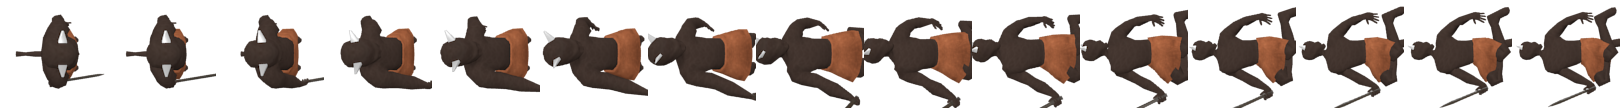
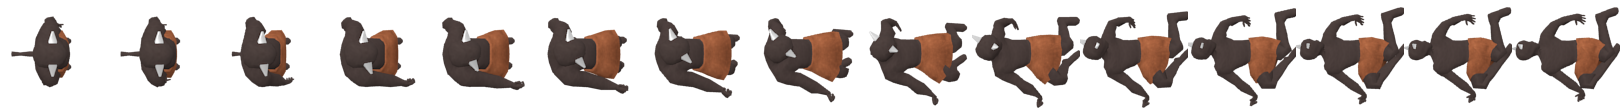
Intros, item balancing, updated anims

Changed region(s): [[0.0, 0.0556, 1.0, 1.0], [0.8642, 0.9722, 0.8951, 1.0]]

diff --git a/core/src/userInterface/InputHandler.java b/core/src/userInterface/InputHandler.java
@@ -14,6 +14,10 @@ public class InputHandler
 {
 
 	private Debug debugger = new Debug();
+	
+	private int lockX = -1;
+	private int lockY = -1;
+	private long lastButtonClick;
 	public void update(boolean playableLevel)
 	{
 		if (playableLevel)
@@ -59,18 +63,25 @@ public class InputHandler
 				{
 					int x = Gdx.input.getX();
 					int y = Canvas.HEIGHT-Gdx.input.getY();
-					if(!GUIHandler.getGUIHandler().wasGUIPressed(x,y))
+					if(GUIHandler.getGUIHandler().wasGUIPressed(x,y))
+					{
+						lockX = x;
+						lockY = y;
+						lastButtonClick = System.currentTimeMillis();
+					}
+					if(!(x==lockX && y==lockY) || System.currentTimeMillis()-lastButtonClick>500)
 						PlayerObject.getPlayerObject().attackLoc(x, y);
 				}
 				charObj.inputDone();			
 			}
 			else
 			{
-				if (Gdx.input.isButtonPressed(Buttons.LEFT))
+				if (Gdx.input.isButtonPressed(Buttons.LEFT)&&System.currentTimeMillis()-lastButtonClick>500)
 				{
 					int x = Gdx.input.getX();
 					int y = Canvas.HEIGHT-Gdx.input.getY();
 					GUIHandler.getGUIHandler().wasGUIPressed(x,y);
+					lastButtonClick = System.currentTimeMillis();
 				}
 			}
 			if(Gdx.input.isKeyJustPressed(Keys.P))
@@ -80,11 +91,12 @@ public class InputHandler
 		}
 		else
 		{
-			if (Gdx.input.isButtonPressed(Buttons.LEFT))
+			if (Gdx.input.isButtonPressed(Buttons.LEFT)&&System.currentTimeMillis()-lastButtonClick>500)
 			{
 				int x = Gdx.input.getX();
 				int y = Canvas.HEIGHT-Gdx.input.getY();
 				GUIHandler.getGUIHandler().wasGUIPressed(x,y);
+				lastButtonClick=System.currentTimeMillis();
 					
 			}
 		}

diff --git a/core/src/game/MainGame.java b/core/src/game/MainGame.java
@@ -154,15 +154,19 @@ public class MainGame extends ApplicationAdapter
 	public enum Level
 	{
 		MAIN_MENU,
+		FAMINE_INTRO(-5),
 		FIRST_PRAYER,
 		FAMINE(1),
 		FAMINE_WON,
+		PLAGUE_INTRO(-4),
 		SECOND_PRAYER,
 		PLAGUE(2),
 		PLAGUE_WON,
+		WAR_INTRO(-3),
 		THIRD_PRAYER,
 		WAR(3),
 		WAR_WON,
+		DEATH_INTRO(-2),
 		FOURTH_PRAYER,
 		DEATH(4),
 		DEATH_WON,
@@ -173,7 +177,7 @@ public class MainGame extends ApplicationAdapter
 		private static ArrayList<Level> playableLevels;
 		Level(int levelNumber)
 		{
-			this.playable = true;
+			this.playable = levelNumber>0;
 			this.levelNumber = levelNumber;
 		}
 		public static Level getLevel(int levelToGet)
@@ -218,24 +222,32 @@ public class MainGame extends ApplicationAdapter
 			switch(this)
 			{
 			case MAIN_MENU:
+				return FAMINE_INTRO;
+			case FAMINE_INTRO:
 				return FIRST_PRAYER;
 			case FIRST_PRAYER:
 				return FAMINE;
 			case FAMINE:
 				return FAMINE_WON;
 			case FAMINE_WON:
+				return PLAGUE_INTRO;
+			case PLAGUE_INTRO:
 				return SECOND_PRAYER;
 			case SECOND_PRAYER:
 				return PLAGUE;
 			case PLAGUE:
 				return PLAGUE_WON;
 			case PLAGUE_WON:
+				return WAR_INTRO;
+			case WAR_INTRO:
 				return THIRD_PRAYER;
 			case THIRD_PRAYER:
 				return WAR;
 			case WAR:
 				return WAR_WON;
 			case WAR_WON:
+				return DEATH_INTRO;
+			case DEATH_INTRO:
 				return FOURTH_PRAYER;
 			case FOURTH_PRAYER:
 				return DEATH;

diff --git a/core/src/graphics/ImageLibrary.java b/core/src/graphics/ImageLibrary.java
@@ -56,6 +56,10 @@ public class ImageLibrary
 			images.put("titleScreen", new TextureRegion(new Texture("res/cutscenes/titleScreen.png"), 0, 0, 1.0f, 1.0f));
 			images.put("prayerChoiceScreen", new TextureRegion(new Texture("res/cutscenes/prayerChoiceScreen.png"), 0, 0, 1.0f, 1.0f));
 			
+			images.put("intro1", new TextureRegion(new Texture("res/cutscenes/famineIntro.jpg"), 0, 0, 1.0f, 1.0f));
+			images.put("intro2", new TextureRegion(new Texture("res/cutscenes/plagueIntro.jpg"), 0, 0, 1.0f, 1.0f));
+			images.put("intro3", new TextureRegion(new Texture("res/cutscenes/warIntro.jpg"), 0, 0, 1.0f, 1.0f));
+			images.put("intro4", new TextureRegion(new Texture("res/cutscenes/deathIntro.jpg"), 0, 0, 1.0f, 1.0f));
 			
 
 			images.put("rustySword",
@@ -81,6 +85,8 @@ public class ImageLibrary
 
 			images.put("arrow",
 					new TextureRegion(new Texture("res/items/misc/arrow.png"), 0, 0, 1.0f, 1.0f));
+			images.put("deathBall",
+					new TextureRegion(new Texture("res/effects/deathBall.png"), 0, 0, 1.0f, 1.0f));
 			images.put("elixr",
 					new TextureRegion(new Texture("res/items/misc/elixr.png"), 0, 0, 1.0f, 1.0f));
 

diff --git a/core/src/gameObjects/DemonDeath.java b/core/src/gameObjects/DemonDeath.java
@@ -11,13 +11,13 @@ public class DemonDeath extends EnemyObject
 	public static final int SIZE = 25;
 	public static final String TEXTURE = "demonDeath";
 	public static final double SPEED = 50;
-	public static final int DAMAGE = 10;
+	public static final int DAMAGE = 8;
 	public static final int MAX_RANGE = 0;
 	public static final int MIN_RANGE = 100;
 	public static final int ALERT_DISTANCE = 400;
-	public static final int HEALTH = 100;
+	public static final int HEALTH = 180;
 	public static final float ATTACK_DELAY = 2.0f;
-	public static final double PROJECTILE_SPEED = 300;
+	public static final double PROJECTILE_SPEED = 200;
 		
 	
 	
@@ -31,6 +31,6 @@ public class DemonDeath extends EnemyObject
 	@Override
 	public void attack()
 	{
-		new Projectile(x,y,10,10,"arrow",LayerType.PLAYER,PROJECTILE_SPEED,(int)(DAMAGE),(int)rotation,this);
+		new Projectile(x,y,10,10,"deathBall",LayerType.PLAYER,PROJECTILE_SPEED,(int)(DAMAGE),(int)rotation,this);
 	}
 }

diff --git a/core/src/gameObjects/DeathBoss.java b/core/src/gameObjects/DeathBoss.java
@@ -14,11 +14,11 @@ public class DeathBoss extends Boss implements PlayerListener
 	public static final int SIZE = 25;
 	public static final String TEXTURE = "deathBoss";
 	public static final double SPEED = 50;
-	public static final int DAMAGE = 10;
+	public static final int DAMAGE = 30;
 	public static final int MAX_RANGE = 40;
 	public static final int MIN_RANGE = 30;
 	public static final int ALERT_DISTANCE = 400;
-	public static final int HEALTH = 150;
+	public static final int HEALTH = 400;
 	
 
 	public static final int PRAYER_PENALTY = 5;
@@ -30,6 +30,7 @@ public class DeathBoss extends Boss implements PlayerListener
 		QuestHandler.getQuestHandler().setBoss(this);
 		PlayerObject.getPlayerObject().addListener(this);
 	}
+	
 	
 	@Override
 	public void actionPerformed(PlayerActions action)

diff --git a/core/src/gui/GUIHandler.java b/core/src/gui/GUIHandler.java
@@ -60,6 +60,10 @@ public class GUIHandler
 		inventory = new Inventory(Canvas.WIDTH - 150, 100, 140, 300);
 		prayerBar = new PrayerBar(0, Canvas.HEIGHT-50, 50);
 		}
+		else if(l.getLevelNumber()<-1)
+		{
+			levelIntro(l.getLevelNumber()+6);
+		}
 		else
 		{
 			switch(l)
@@ -124,6 +128,12 @@ public class GUIHandler
 		}
 	}
 	
+	private void levelIntro(int levelNumber)
+	{
+		new GraphicComponent(0, 0, Canvas.WIDTH, Canvas.HEIGHT, "intro" + levelNumber, LayerType.GUI);
+		interactableObjects.add(new LevelLoadButton(200,0));
+	}
+
 	private void makePrayerChoices(String prayer1,  int width1, int height1,String prayer2, int width2, int height2, int level)
 	{
 		new GraphicComponent(0, 0, Canvas.WIDTH, Canvas.HEIGHT, "prayerChoiceScreen", LayerType.GUI);

diff --git a/core/src/gameObjects/DemonPlague.java b/core/src/gameObjects/DemonPlague.java
@@ -9,14 +9,14 @@ public class DemonPlague extends EnemyObject
 	public static final int SIZE = 25;
 	public static final String TEXTURE = "demonPlague";
 	public static final double SPEED = 50;
-	public static final int DAMAGE = 10;
+	public static final int DAMAGE = 15;
 	public static final int MAX_RANGE = 40;
 	public static final int MIN_RANGE = 30;
 	public static final int ALERT_DISTANCE = 400;
-	public static final int HEALTH = 100;
+	public static final int HEALTH = 60;
 	
 
-	public static final int POISON_DAMAGE = 2;
+	public static final int POISON_DAMAGE = 4;
 	public static final float POISON_DURATION = 5.0f;
 	
 	

diff --git a/core/src/gameObjects/PlagueBoss.java b/core/src/gameObjects/PlagueBoss.java
@@ -14,14 +14,14 @@ public class PlagueBoss extends Boss
 	public static final int SIZE = 25;
 	public static final String TEXTURE = "plagueBoss";
 	public static final double SPEED = 50;
-	public static final int DAMAGE = 10;
+	public static final int DAMAGE = 20;
 	public static final int MAX_RANGE = 40;
 	public static final int MIN_RANGE = 30;
 	public static final int ALERT_DISTANCE = 400;
-	public static final int HEALTH = 150;
+	public static final int HEALTH = 130;
 	
 
-	public static final float POISON_DAMAGE = 5;
+	public static final float POISON_DAMAGE = 6;
 	
 	
 	public PlagueBoss(int xin, int yin, Building owner)

diff --git a/core/src/gameObjects/WarBoss.java b/core/src/gameObjects/WarBoss.java
@@ -15,11 +15,11 @@ public class WarBoss extends Boss
 	public static final int SIZE = 25;
 	public static final String TEXTURE = "warBoss";
 	public static final double SPEED = 50;
-	public static final int DAMAGE = 10;
+	public static final int DAMAGE = 25;
 	public static final int MAX_RANGE = 40;
 	public static final int MIN_RANGE = 30;
 	public static final int ALERT_DISTANCE = 400;
-	public static final int HEALTH = 150;
+	public static final int HEALTH = 300;
 	
 
 	public static final float IDLE_PENALTY = 5;

diff --git a/core/src/audio/AudioHandler.java b/core/src/audio/AudioHandler.java
@@ -65,6 +65,9 @@ public class AudioHandler
 		private void loadAudio()
 		{
 			sounds.put("bossMusic1",new Audio("res/audio/gameMusic/NamelessKing.mp3",true)); 
+			sounds.put("bossMusic2",new Audio("res/audio/gameMusic/NamelessKing.mp3",true)); 
+			sounds.put("bossMusic3",new Audio("res/audio/gameMusic/NamelessKing.mp3",true)); 
+			sounds.put("bossMusic4",new Audio("res/audio/gameMusic/NamelessKing.mp3",true)); 
 			
 			
 			sounds.put("GameMusic1",new Audio("res/audio/gameMusic/GameMusic1.mp3",true)); 

diff --git a/core/src/gameObjects/DemonWar.java b/core/src/gameObjects/DemonWar.java
@@ -9,11 +9,11 @@ public class DemonWar extends EnemyObject
 	public static final int SIZE = 25;
 	public static final String TEXTURE = "demonWar";
 	public static final double SPEED = 50;
-	public static final int DAMAGE = 10;
+	public static final int DAMAGE = 15;
 	public static final int MAX_RANGE = 40;
 	public static final int MIN_RANGE = 30;
 	public static final int ALERT_DISTANCE = 400;
-	public static final int HEALTH = 100;
+	public static final int HEALTH = 120;
 	
 	
 	

diff --git a/core/src/gui/Inventory.java b/core/src/gui/Inventory.java
@@ -36,7 +36,7 @@ public class Inventory extends GUIComponent
 		
 		onHandName = new TextComponent(x, y + ySize - 60, xSize, 0,
 				PlayerObject.getPlayerObject().getOnHand().getName(), LayerType.GUI);
-		onHandInfoFlavor = new TextComponent(x, y + ySize - 80, xSize, 0,
+		onHandInfoFlavor = new TextComponent(x, y + ySize - 90, xSize, 0,
 				PlayerObject.getPlayerObject().getOnHand().getFlavorText(), LayerType.GUI);
 		
 
